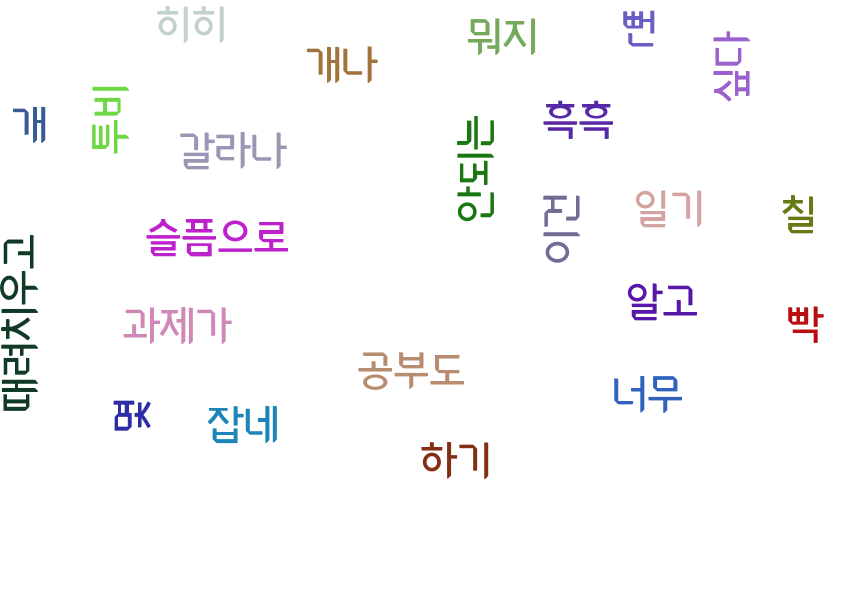
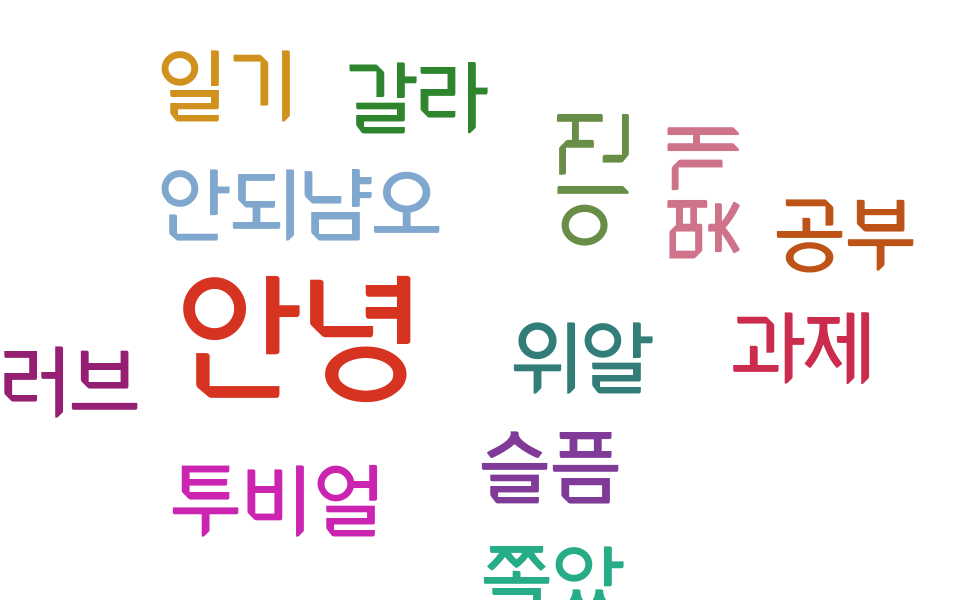
picture auto

diff --git a/word/new.py b/word/new.py
@@ -1,4 +1,4 @@
-from konlpy.tag import Kkma
+from konlpy.tag import Twitter
 from sklearn.feature_extraction.text import TfidfVectorizer
 from collections import defaultdict
 from collections import Counter
@@ -11,7 +11,7 @@ cred = credentials.Certificate("./serviceAccountKey.json")
 firebase_admin.initialize_app(cred)
 sender = 'izero3127@gmail.com'
 
-kkma=Kkma()
+kkma=Twitter()
 # f=open("speech.txt",mode='r',encoding='utf-8')
 # txt=f.read()
 # f.close()
@@ -26,7 +26,7 @@ result = ""
 for doc in docs:
     if doc.to_dict()['isMe'] == True and doc.to_dict()['sender'] == sender:
         result += doc.to_dict()['diary']
-speech=kkma.sentences(result)        
+speech=kkma.nouns(result)        
 print(result)
 
 #TFIDF
